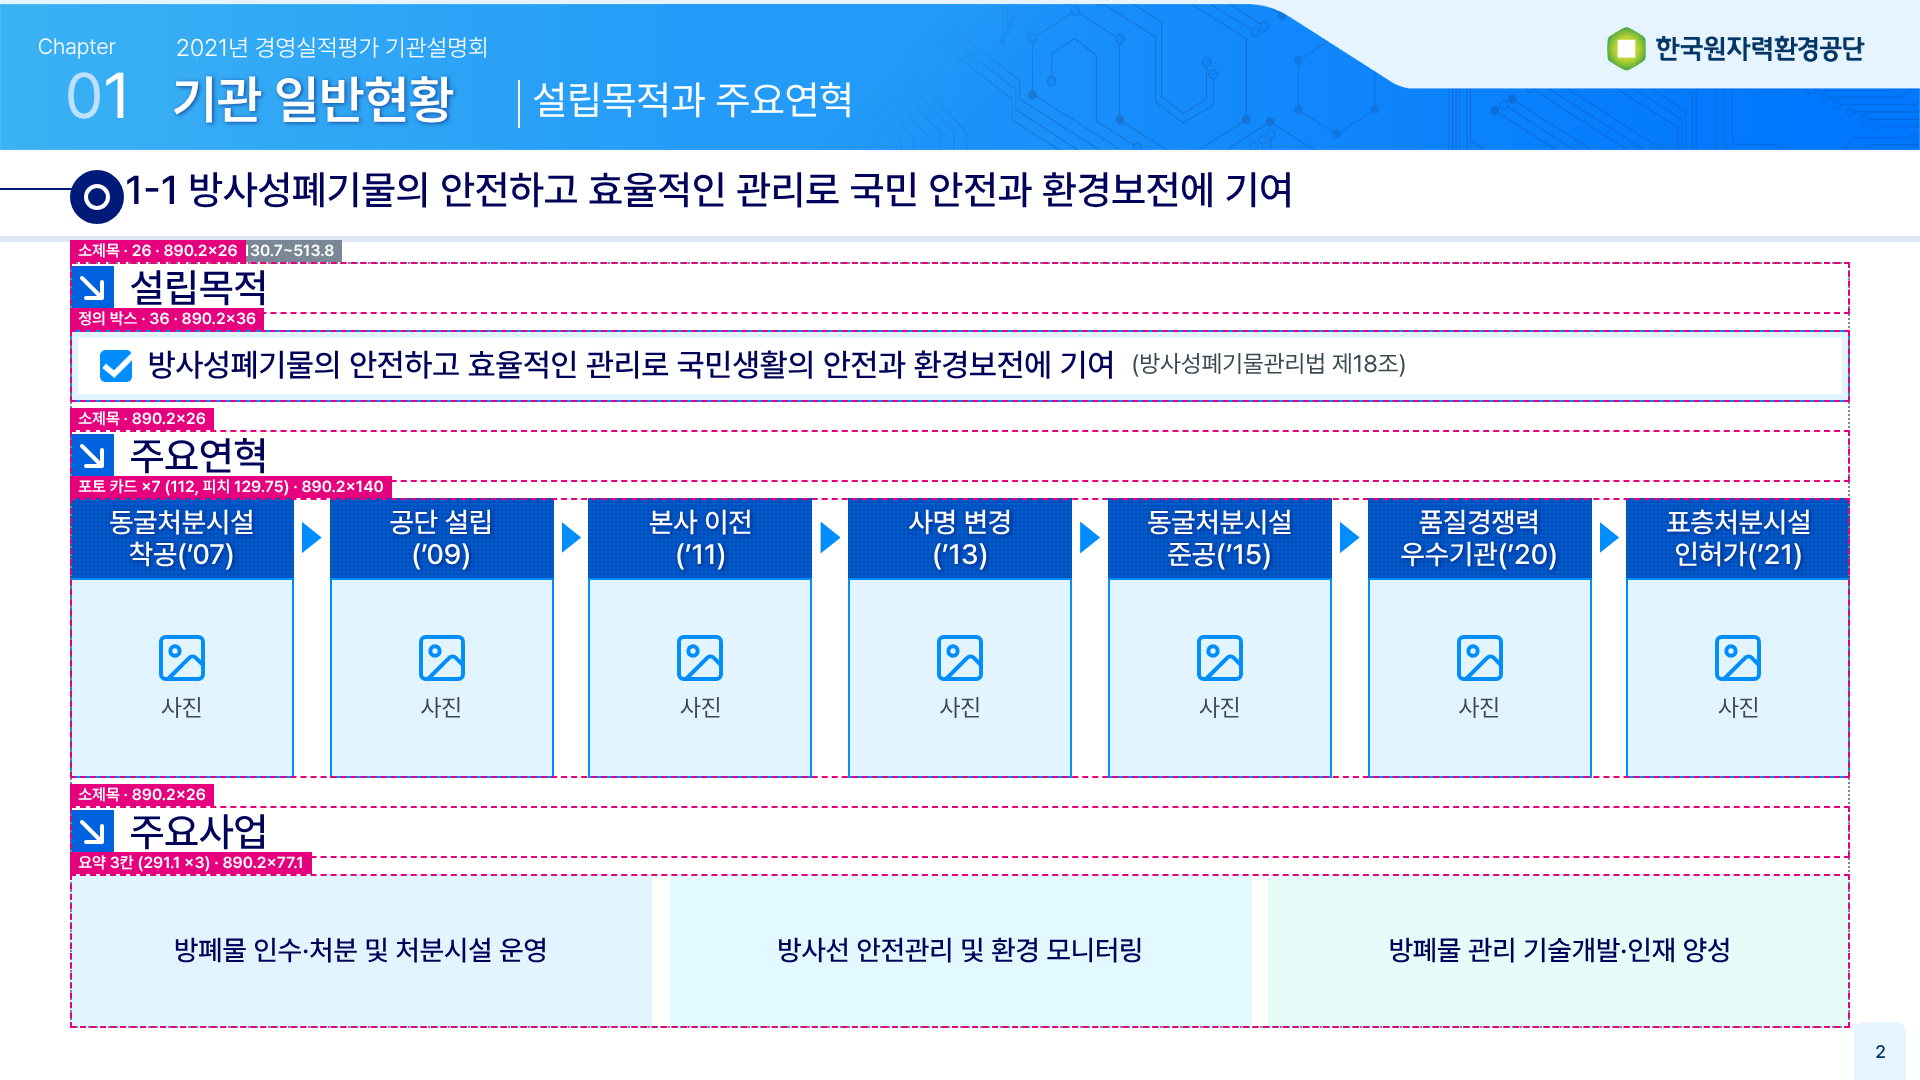
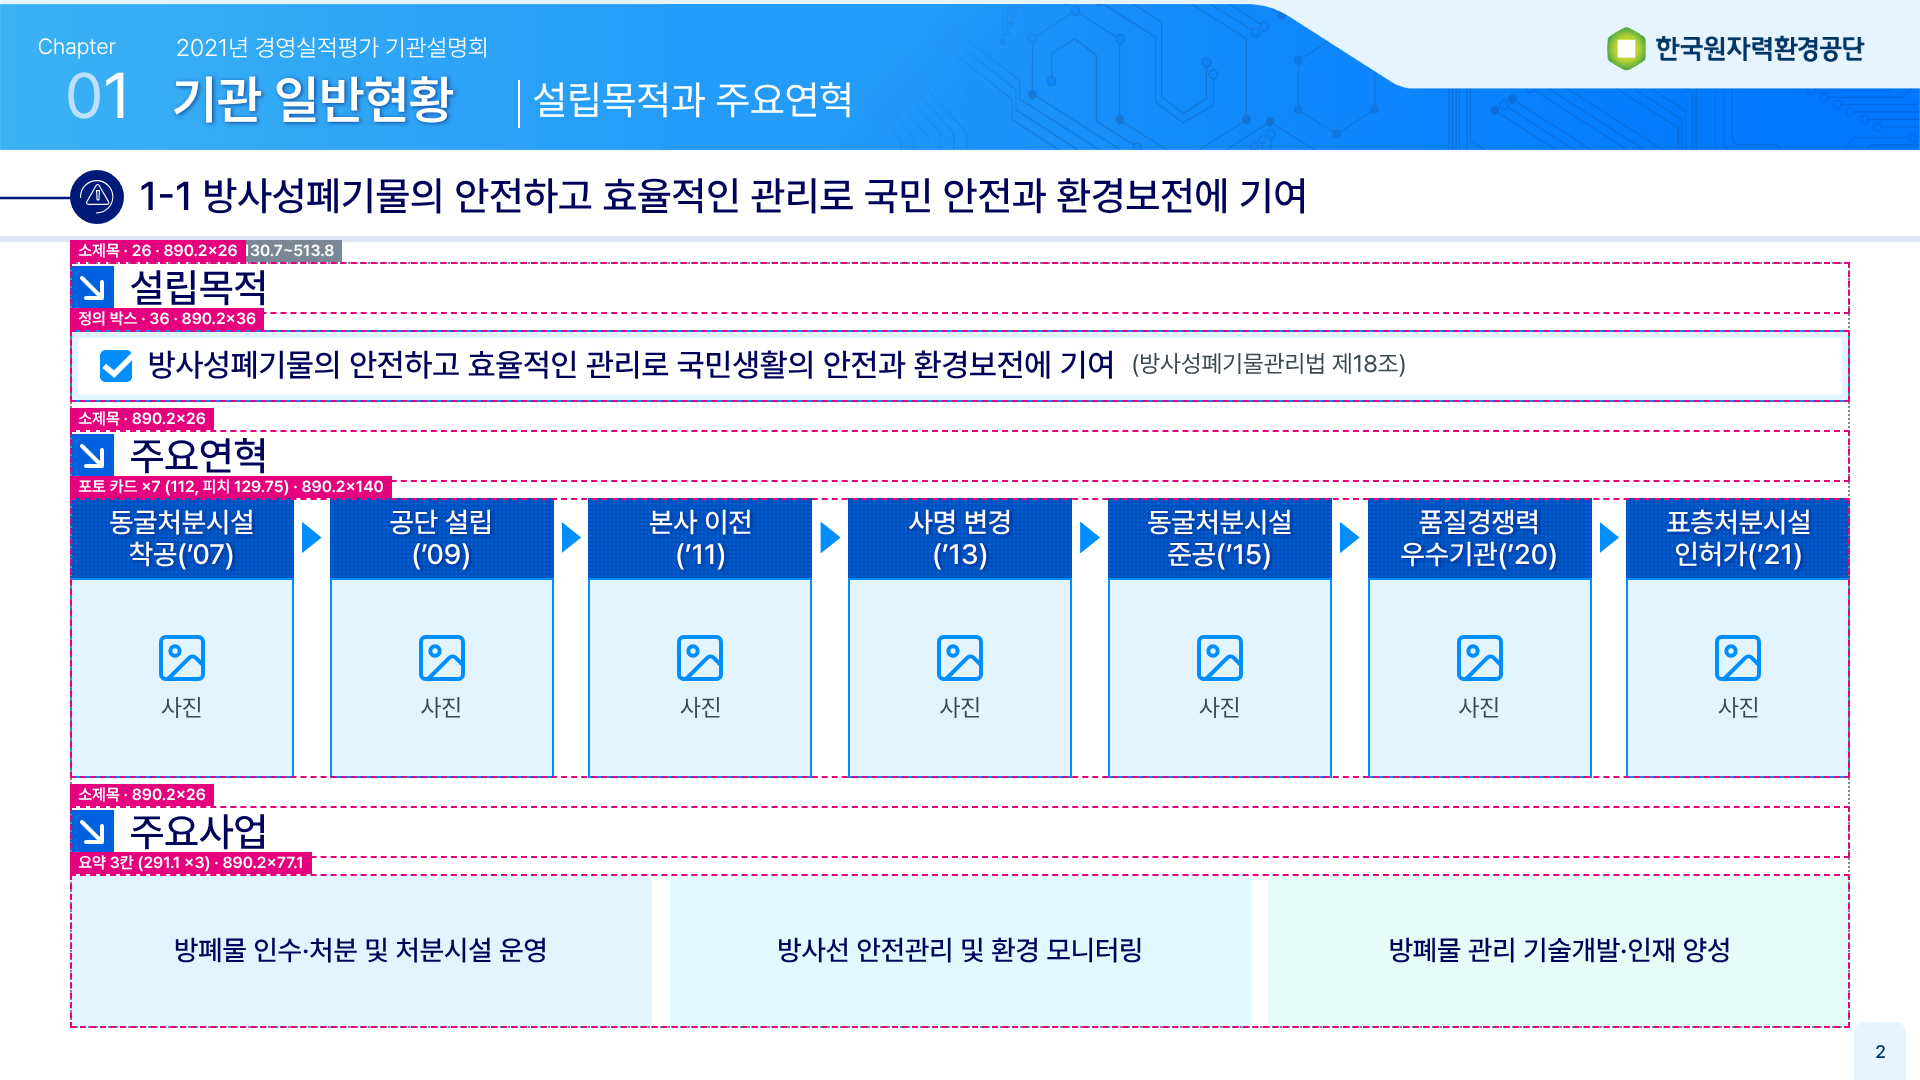
참조B L49~L54 거버닝메시지 원을 원본 트레이스(남색 원 + 흰 아이콘, 리드선, 글자 간격)와 통일
Claude-Session: https://claude.ai/code/session_01J9Wvo8zFfd5NLijJk4VwE7

Changed region(s): [[0.0, 0.1528, 0.6875, 0.2139]]

diff --git a/korad-디자인시스템-참조B/src/shell.py b/korad-디자인시스템-참조B/src/shell.py
@@ -35,9 +35,13 @@ def header(num, title, sub, page, gm_no, gm, doc='2021년 경영실적평가 기
   <p class="ko-abs ko-header-sub" style="left:{dv+7.8:.1f}px">{sub}</p>
   <img class="ko-ci" src="{blob('ci')}" alt="한국원자력환경공단" style="left:801.5px;top:12px;width:132.2px">
   <div class="ko-abs ko-page-tab">{page}</div>
-  <div class="ko-abs ko-gm-lead"></div>
-  <div class="ko-abs ko-gm-dot"></div>
-  <p class="ko-abs ko-gm-text">{gm_no} {gm}</p>
+  <svg style="position:absolute;left:0px;top:97.54px;width:39.37px;height:2px;overflow:visible" width="39.37" height="2"><line x1="0" y1="1" x2="39.37" y2="1" stroke="#001a7a" stroke-opacity="1" stroke-width="1.25"/></svg>
+  <div style="position:absolute;left:35px;top:84.91px;width:27.24px;height:27.24px;box-sizing:border-box;background:#001a7a;border-radius:50%;"></div>
+  <svg style="position:absolute;left:42.79px;top:92.28px;width:11.69px;height:10.51px;overflow:visible;" width="11.69" height="10.51" viewBox="0 0 11.69 10.51"><path d="M10.56 10.51L1.13 10.51C0.71 10.51 0.37 10.29 0.14 9.94C-0.05 9.59 -0.05 9.18 0.14 8.8L4.84 0.57C5.03 0.22 5.42 0 5.83 0C6.24 0 6.59 0.22 6.81 0.57L11.55 8.8C11.74 9.15 11.74 9.56 11.55 9.94C11.36 10.29 10.97 10.51 10.56 10.51ZM5.83 0.54C5.61 0.54 5.45 0.64 5.32 0.83L0.62 9.08C0.52 9.28 0.52 9.47 0.62 9.66C0.71 9.85 0.91 9.94 1.13 9.94L10.56 9.94C10.78 9.94 10.94 9.85 11.07 9.66C11.17 9.47 11.17 9.28 11.07 9.08L6.34 0.83C6.24 0.64 6.05 0.54 5.83 0.54L5.83 0.54Z" fill="#ffffff" fill-opacity="1"/></svg>
+  <svg style="position:absolute;left:40.27px;top:90.15px;width:16.71px;height:16.74px;overflow:visible;" width="16.71" height="16.74" viewBox="0 0 16.71 16.74"><path d="M8.35 16.74C8.35 16.74 8.07 16.61 8.07 16.45C8.07 16.3 8.2 16.17 8.35 16.17C12.64 16.17 16.17 12.67 16.17 8.35C16.17 4.03 12.67 0.57 8.35 0.57C4.03 0.57 0.57 4.07 0.57 8.35C0.57 8.51 0.44 8.64 0.29 8.64C0.13 8.64 0 8.51 0 8.35C0 3.75 3.75 0 8.35 0C12.96 0 16.71 3.75 16.71 8.35C16.71 12.96 12.96 16.71 8.35 16.71Z" fill="#ffffff" fill-opacity="1"/></svg>
+  <svg style="position:absolute;left:40.27px;top:98.22px;width:0.57px;height:1.02px;overflow:visible;" width="0.57" height="1.02" viewBox="0 0 0.57 1.02"><path d="M0.29 1.02C0.29 1.02 0 0.89 0 0.76C0 0.6 0 0.44 0 0.29C0 0.13 0.13 0 0.29 0C0.44 0 0.57 0.13 0.57 0.29C0.57 0.44 0.57 0.57 0.57 0.73C0.57 0.89 0.48 1.02 0.32 1.02C0.32 1.02 0.32 1.02 0.32 1.02Z" fill="#ffffff" fill-opacity="1"/></svg>
+  <svg style="position:absolute;left:47.6px;top:94.63px;width:2.01px;height:5.24px;overflow:visible;" width="2.01" height="5.24" viewBox="0 0 2.01 5.24"><path d="M1.46 5.24L0.57 5.24C0.57 5.24 0.32 5.11 0.29 4.99L0 0.32C0 0.32 0 0.16 0.06 0.1C0.13 0.03 0.19 0 0.25 0L1.75 0C1.75 0 1.91 0.03 1.94 0.1C1.97 0.16 2.03 0.22 2 0.32L1.72 4.99C1.72 4.99 1.59 5.24 1.43 5.24ZM0.86 4.7L1.21 4.7L1.46 0.6L0.57 0.6L0.83 4.7Z" fill="#ffffff" fill-opacity="1"/></svg>
+  <div style="position:absolute;left:62.54px;top:82.78px;width:860px;height:31.5px;box-sizing:border-box;padding:3.6px 7.2px 3.6px 7.2px;display:flex;flex-direction:column;justify-content:flex-start;white-space:nowrap;"><p style="margin:0;font-size:20px;font-weight:500;text-align:left;line-height:1.2;color:#000359;">{gm_no} {gm}</p></div>
   <div class="ko-abs ko-gm-rule"></div>
 '''
 
